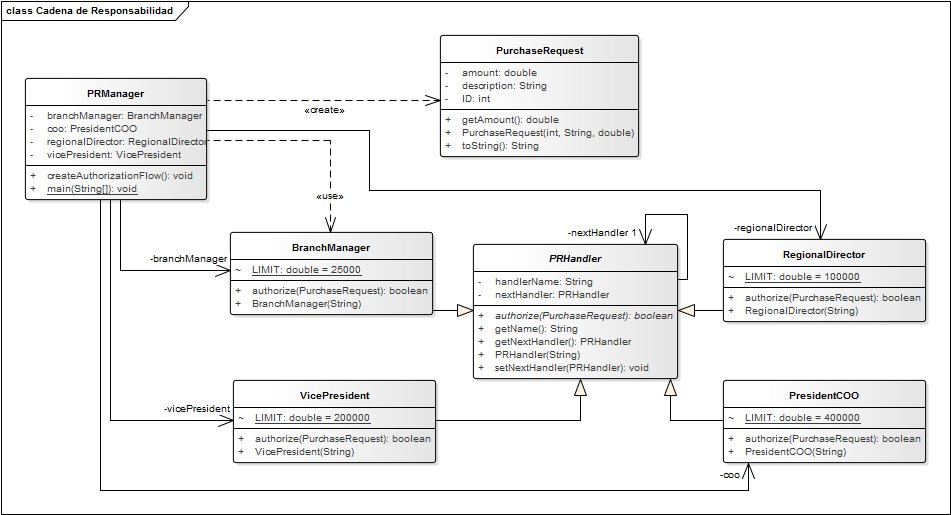
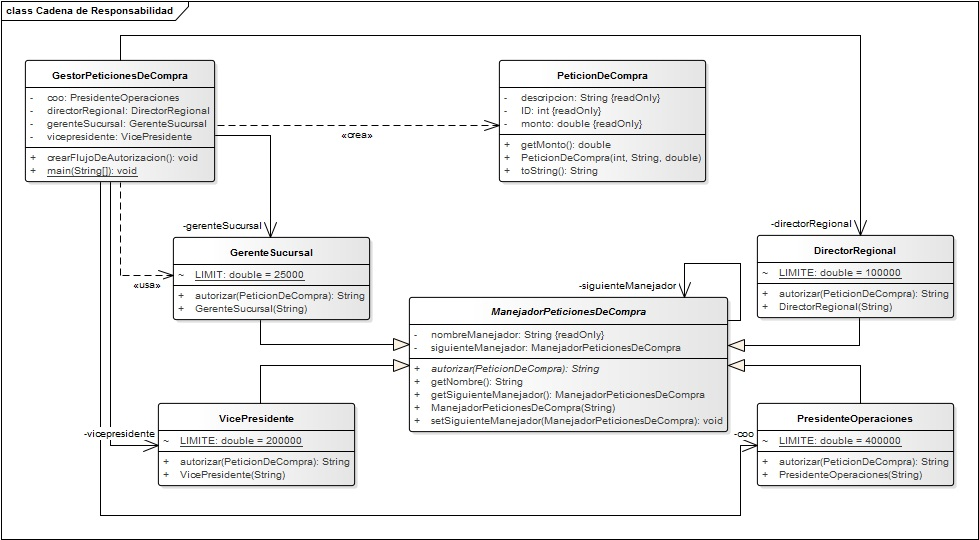
Modificando Readme y agregando imagenes correctas

Changed region(s): [[0.0, 0.0, 0.9758, 0.9631], [0.3354, 0.3728, 0.3659, 0.4039]]

diff --git a/README.md b/README.md
@@ -4,21 +4,21 @@ Ejemplo de aplicación del patrón de diseño cadena de responsabilidad tomando 
 
 ### Enunciado
 
-Se requiere una aplicación que simule el proceso de autorización de peticiones de compra (PC) en una organización, dichas peticiones de compra deben ser autorizadas por un gerente en especifio según el monto de la compra; se supone una organización con 4 gerentes involucrados en el proceso de autorización actualmente:
+Se requiere una aplicación que simule el proceso de autorización de peticiones de compra (PC) en una organización, dichas peticiones de compra deben ser autorizadas por un gerente en específico según el monto de la compra; se supone una organización con 4 gerentes involucrados en el proceso de autorización actualmente:
 
-* Gerente de Sucursal - Monto maximo a autorizar: US$ 25,000
-* Director Regional- Monto maximo a autorizar: US$ 100,000
-* Vicepresidente- Monto maximo a autorizar: US$ 200,000
-* Presidente de opeeraciones- Monto maximo a autorizar: US$ 400,000
+* Gerente de Sucursal - Monto máximo a autorizar: US$ 25,000
+* Director Regional- Monto máximo a autorizar: US$ 100,000
+* Vicepresidente- Monto máximo a autorizar: US$ 200,000
+* Presidente de operaciones- Monto máximo a autorizar: US$ 400,000
 
 ### Solución propuesta
 
-Para el desarrollo de dicha aplicación se propone la implementación del patrón de diseño cadena de responsabilidad que  manejará las peticiones entre los diferentes gerentes de la organización dando la respuesta adecuada.
+Para el desarrollo de dicha aplicación se propone la implementación del patrón de diseño cadena de responsabilidad que manejará las peticiones entre los diferentes gerentes de la organización dando la respuesta adecuada.
 
 Siguiendo la estructura convencional del patrón se diseñó el diagrama de clases de la aplicación como se muestra a continuación.
 
 ![Alt Diagrama de clases](imagenes/clases.jpg "Diagrama de clases")
 
-Se diseño el diagrama de interacción (no estrícto) para mostrar el posible flujo que prodrán tener las peticiones dentro de la aplicación.
+Se diseñó el diagrama de interacción (no estricto) para mostrar el posible flujo que podrán tener las peticiones dentro de la aplicación.
 
-![Alt Diagrama de interacción](imagenes/clases.jpg "Diagrama de interacción")
+![Alt Diagrama de interacción](imagenes/interaccion.jpg "Diagrama de interacción")
